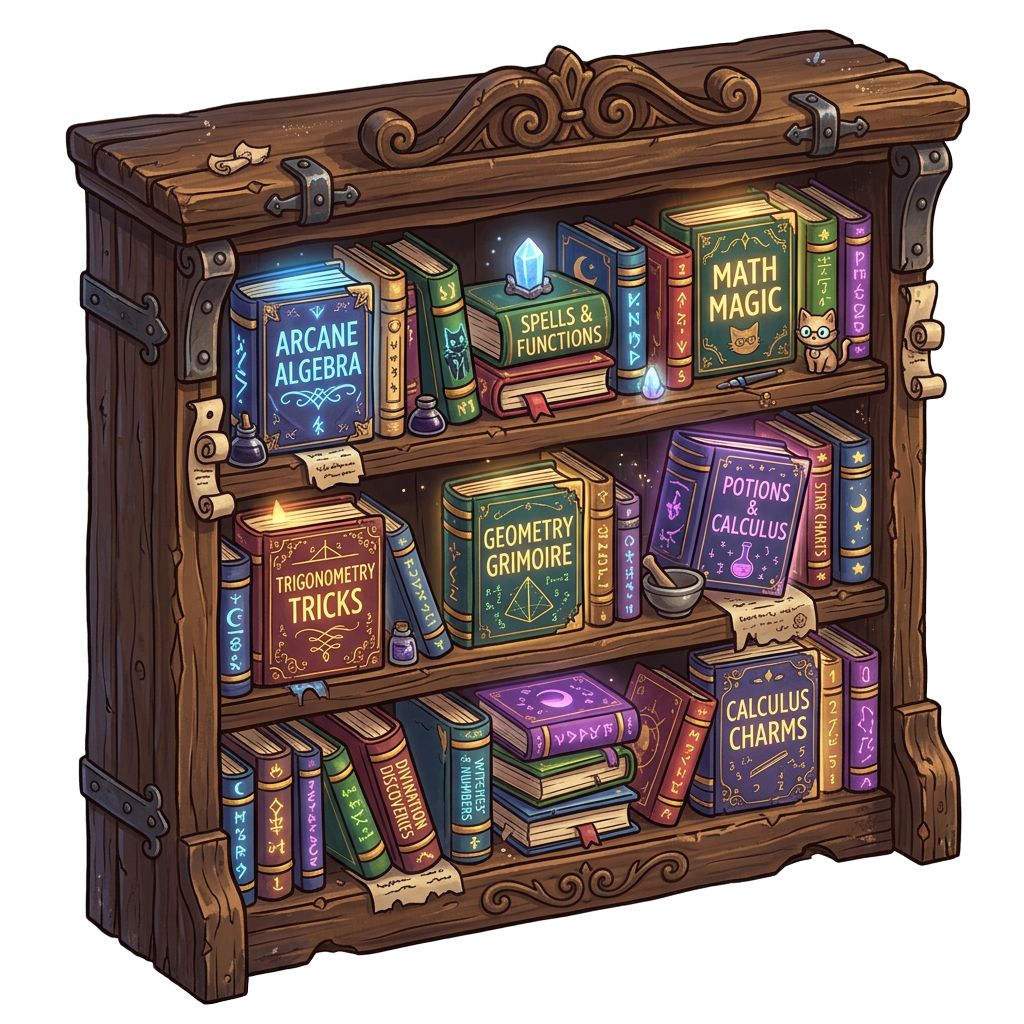
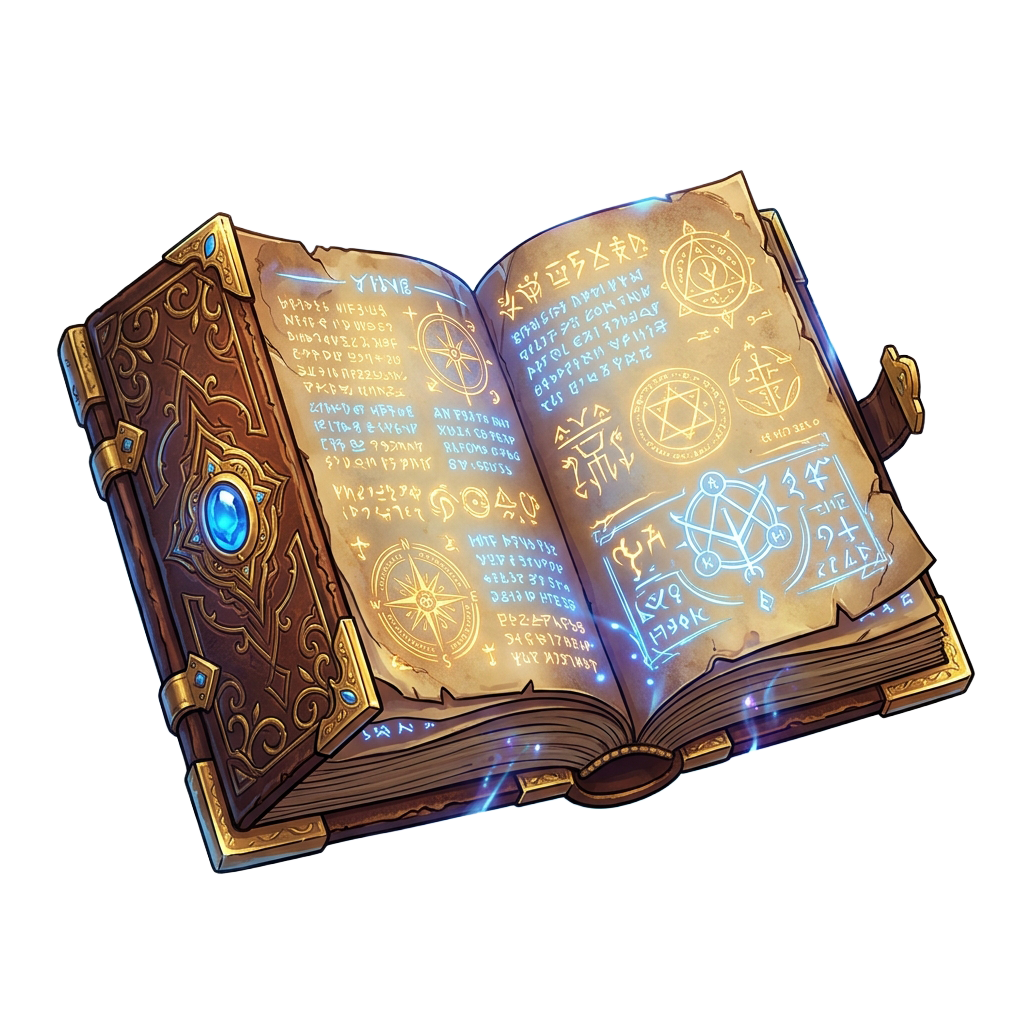
feat: remove crystal ball and finalize magic item set

diff --git a/game.js b/game.js
@@ -69,7 +69,8 @@ class SaveManager {
             items: [...player.items],
             bestCombo,
             stageIdx,
-            furniturePositions: player.furniturePositions
+            furniturePositions: player.furniturePositions,
+            playerLevel: player.level
         }));
     }
     static load() {
@@ -148,6 +149,7 @@ class Player extends Entity {
         this.items  = new Set();
         this.hasOwl = false;
         this.owlLevel = 0;
+        this.level = 1; // 1: 아기 고양이, 2: 견습 고양이, 3: 대마법 고양이
         this.furniturePositions = {}; // itemId -> {x, y}
         this.vx = 0; this.vy = 0;
         // 애니메이션용
@@ -195,15 +197,22 @@ class Player extends Entity {
         const cx = this.x + this.w / 2;
         const cy = this.y + this.h / 2;
 
-        // 1. 바닥 그림자 (입체감 부여)
+        // 1. 바닥 그림자
         ctx.save();
         ctx.fillStyle = 'rgba(0,0,0,0.3)';
         ctx.beginPath();
-        ctx.ellipse(cx, this.y + this.h - 5, 20, 8, 0, 0, Math.PI * 2);
+        // 레벨에 따른 그림자 크기 조절
+        const shadowSize = 15 + (this.level * 5);
+        ctx.ellipse(cx, this.y + this.h - 5, shadowSize, 8, 0, 0, Math.PI * 2);
         ctx.fill();
         ctx.restore();
 
-        const sheet = assets.get('cat_player');
+        // 레벨에 따른 스프라이트 시트 결정
+        let sheetId = 'cat_level1';
+        if (this.level === 2) sheetId = 'cat_level2';
+        else if (this.level === 3) sheetId = 'cat_level3';
+
+        const sheet = assets.get(sheetId) || assets.get('cat_player');
         if (!sheet) {
             const img = assets.get('player_cat');
             if (!img) return;
@@ -574,11 +583,6 @@ class ShopManager {
                 id:'room_potion', name:'신비한 마법 물약', price:1200, imgId:'room_potion',
                 desc:'보글보글 거품이 일어나는 마법 포션.', type:'furniture',
                 pos: { x: '30%', y: '45%', w: 60 }, isFloating: true
-            },
-            {
-                id:'room_crystal_ball', name:'예언의 수정구', price:4500, imgId:'room_crystal_ball',
-                desc:'미래의 운명을 보여주는 신비한 구슬.', type:'furniture',
-                pos: { x: '60%', y: '40%', w: 80 }, isFloating: true
             }
         ];
     }
@@ -658,8 +662,7 @@ class RoomManager {
             'room_broom':         { zBase: 20, w: 100, isFloating: true },
             'room_grimoire':      { zBase: 22, w: 100, isFloating: true },
             'room_magic_crystal': { zBase: 25, w: 90,  isFloating: true },
-            'room_potion':        { zBase: 18, w: 65,  isFloating: true },
-            'room_crystal_ball':  { zBase: 23, w: 85,  isFloating: true }
+            'room_potion':        { zBase: 18, w: 65,  isFloating: true }
         };
 
         document.getElementById('open-room').onclick  = () => this.toggle();
@@ -832,11 +835,17 @@ class StageManager {
         if (this.idx < CONFIG.STAGES.length - 1) {
             this.idx++;
             this.resetStage();
+            
+            // 진화 로직: 스테이지 이동 시 레벨업
+            this.game.player.level = this.idx + 1;
+            const evolutionNames = ['', '아기 고양이', '견습 고양이', '대마법 고양이'];
+            
             const s = this.currentStage();
-            this.game.notify(`🌟 ${s.name} - ${s.label} 시작!`);
+            this.game.notify(`🌟 진화! [${evolutionNames[this.game.player.level]}]가 되었습니다!`);
             this.game.audio.playFanfare();
+            this.game.updateHUD();
         } else {
-            this.game.notify('🎉 모든 스테이지 클리어! 수학 마법사 달성!');
+            this.game.notify('🎉 모든 스테이지 클리어! 전설의 대마법사 달성!');
         }
     }
     prevStage() {
@@ -1021,6 +1030,10 @@ class Game {
                 { id:'bg_floor',    path:'images/bg_floor.png'    },
                 { id:'item_boots',  path:'images/item_boots.png'  },
                 { id:'pet_owl',     path:'images/pet_owl.png'     },
+                // 고양이 레벨별 에셋
+                { id:'cat_level1',  path:'images/cat_level1.png'  },
+                { id:'cat_level2',  path:'images/cat_level2.png'  },
+                { id:'cat_level3',  path:'images/cat_level3.png'  },
                 // 방 관련 에셋
                 { id:'room_bg',     path:'images/room_bg.png'     },
                 { id:'room_bed',    path:'images/room_bed.png'    },
@@ -1038,7 +1051,9 @@ class Game {
             // 배경 투명화 처리
             try {
                 this.assets.removeWhiteBg('player_cat', 230);
-                this.assets.removeWhiteBg('cat_player', 230);
+                ['cat_level1', 'cat_level2', 'cat_level3', 'cat_player'].forEach(id => {
+                    this.assets.removeWhiteBg(id, 230);
+                });
                 ['room_bed','room_desk','room_rug','room_chair','room_bookshelf','room_lamp','room_plant','room_window','item_boots','pet_owl'].forEach(id => {
                     this.assets.removeWhiteBg(id, 245);
                 });
@@ -1102,6 +1117,7 @@ class Game {
         if (!d) return;
         this.player.gold = d.gold ?? 0;
         this.bestCombo   = d.bestCombo ?? 0;
+        this.player.level = d.playerLevel ?? 1;
         this.stageManager.idx = Math.min(d.stageIdx ?? 0, CONFIG.STAGES.length - 1);
         (d.items ?? []).forEach(id => {
             this.player.items.add(id);